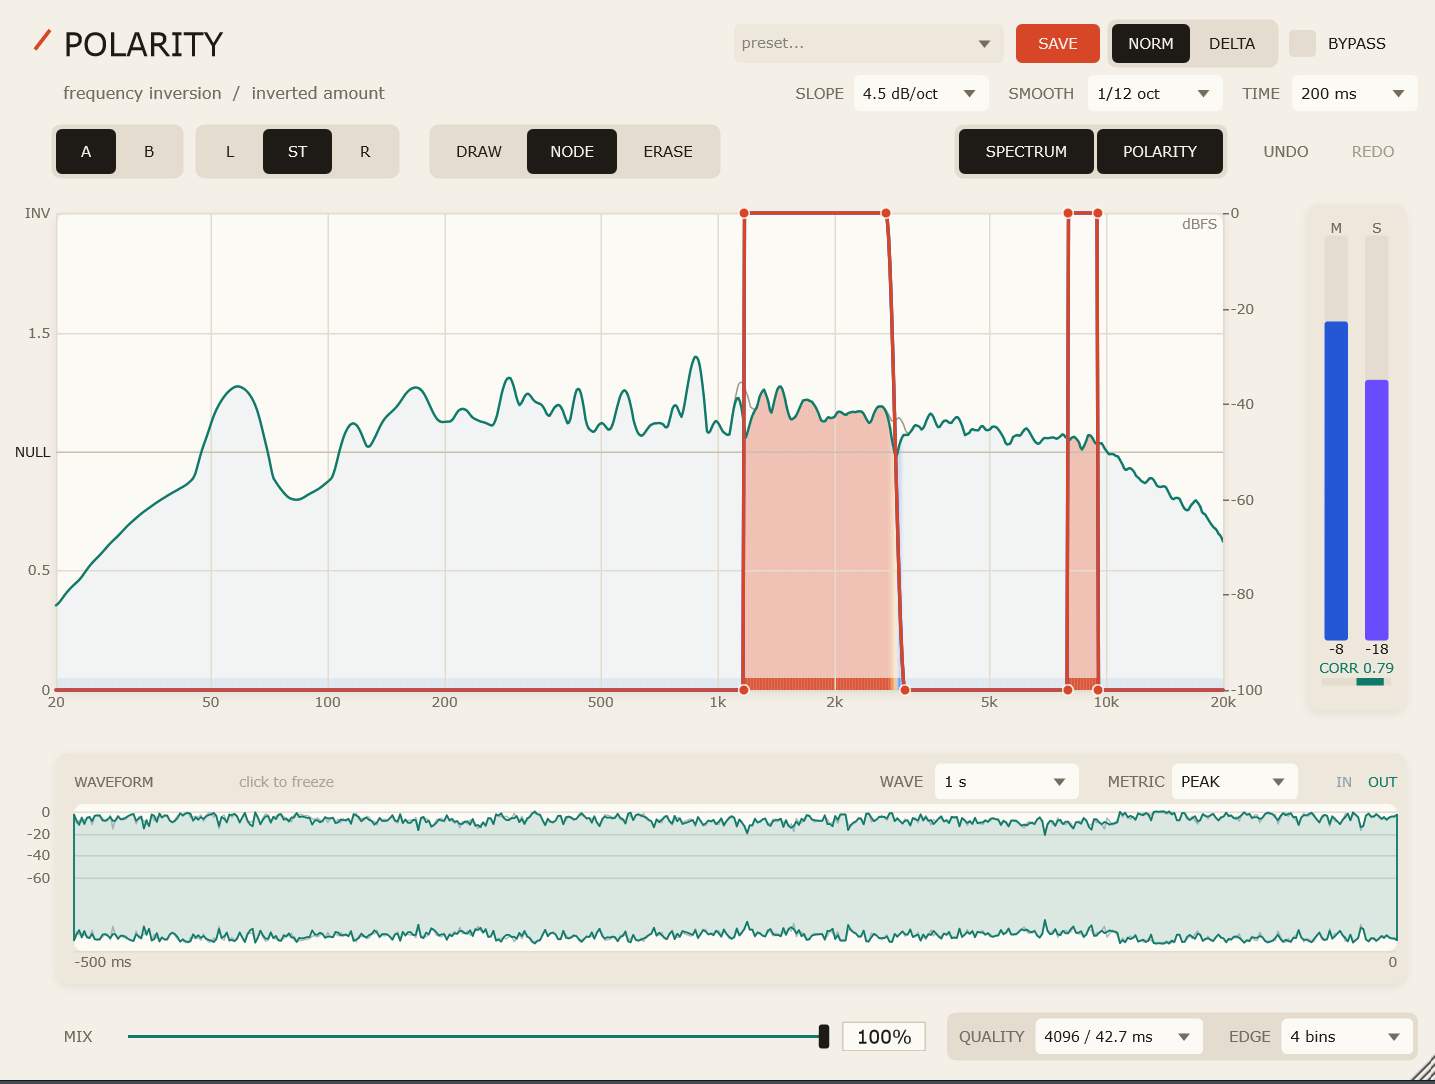
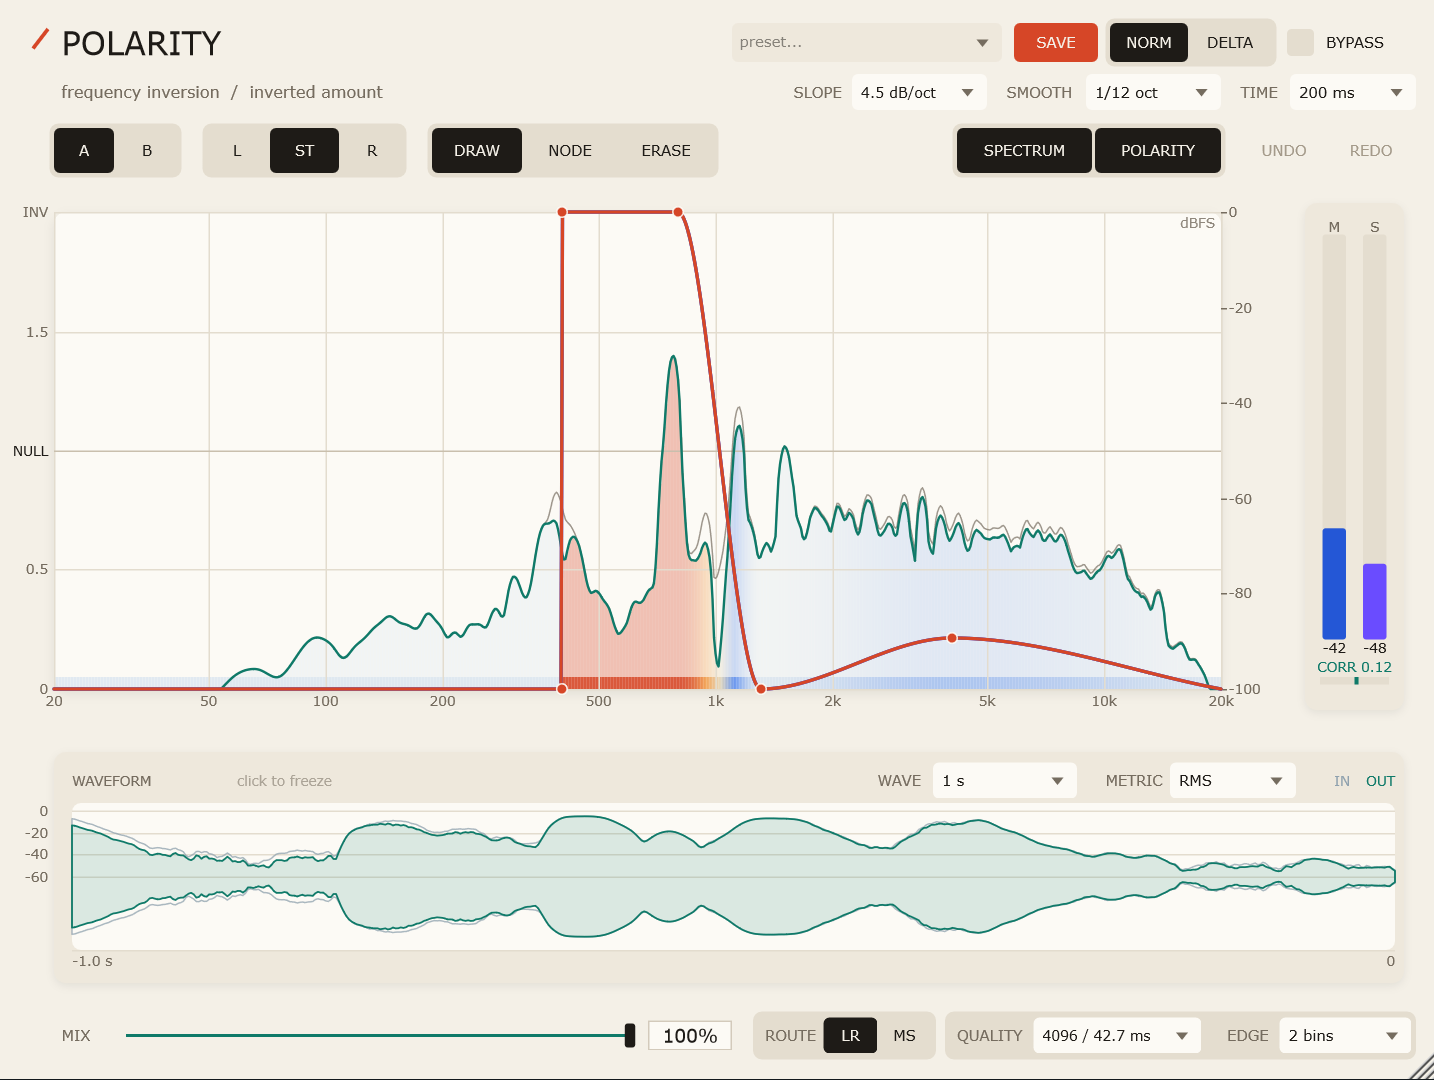
Release 1.1.0
Finalize the 1.1.0 changelog date and point the README at the new release.

diff --git a/Docs/README-zh.md b/Docs/README-zh.md
@@ -63,7 +63,7 @@ VST3 元数据把插件声明为 **Fx + EQ** 子分类（`VST3_CATEGORIES Fx EQ`
 
 ## 发布 1.0.0
 
-> 当前 master 为 **1.1.0（未发布）**，包含分区 FFT 卷积、1024 档与 M/S 路由；变更见 [CHANGELOG.md](../CHANGELOG.md)。以下延迟与版本信息已按 1.1.0 更新。
+> 当前版本为 **1.1.0**（2026-11-05 发布），包含分区 FFT 卷积、1024 档、M/S 路由与手感/UI 修正；变更见 [CHANGELOG.md](../CHANGELOG.md)。
 
 - 版本由 `CMakeLists.txt` 的 `project(Polarity VERSION 1.1.0)` 决定，VST3 的 `moduleinfo.json` 同步，组件 ID 不变，旧工程/预设可继续加载。
 - 支持并已自动测试 44.1 / 48 / 96 / 192 kHz，块大小 32 / 512 / 2048，单声道与立体声。

diff --git a/README.md b/README.md
@@ -29,7 +29,7 @@ Draw separate curves for the left and right channels, or link them together with
 
 ## Download & install
 
-The latest tagged release is **v1.0.0**. The `master` branch also contains the **1.1.0** engine upgrade (partitioned FFT convolution, 1024-tap tier, M/S routing) that is not tagged yet.
+The latest release is **v1.1.0**.
 
 1. Download `Polarity-<version>-win64.zip` from the [Releases page](https://github.com/Nejiwwkr/polarity/releases).
 2. Extract it anywhere.

diff --git a/CHANGELOG.md b/CHANGELOG.md
@@ -1,6 +1,6 @@
 # Changelog
 
-## [1.1.0] - Unreleased
+## [1.1.0] - 2026-11-05
 
 ### Added
 
